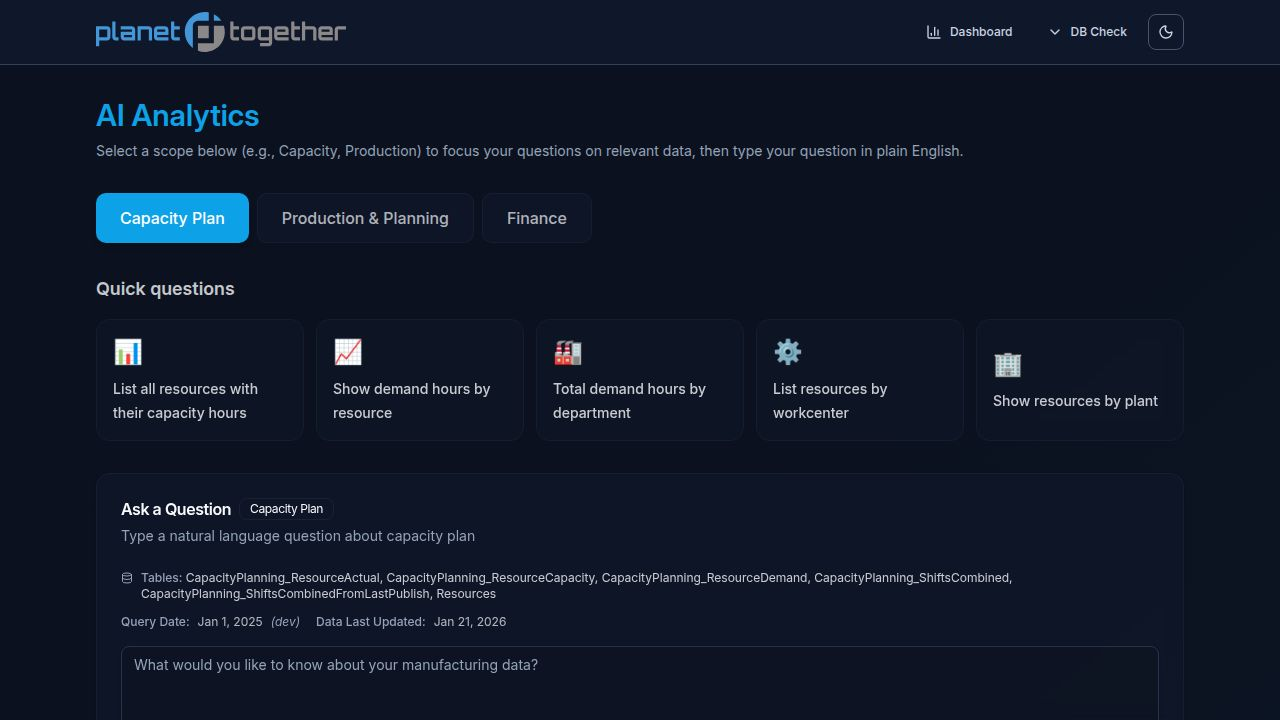
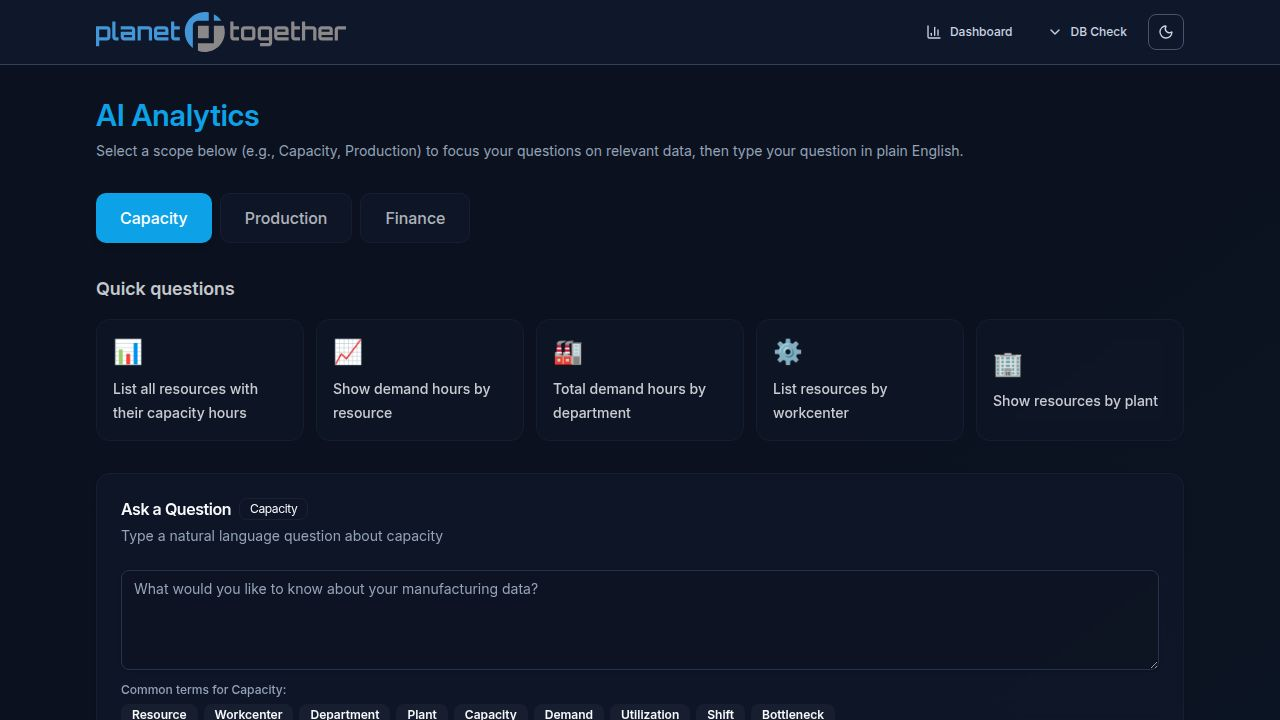
Display AI-generated answers and improve data visibility controls
Introduces natural language answer generation using OpenAI and refactors the results display to show answers prominently, hide raw data by default, and rename "Show All Rows" to "Show Data".

Replit-Commit-Author: Agent
Replit-Commit-Session-Id: 0dbbb982-6ca3-4eb8-8cf5-d91497a90054
Replit-Commit-Checkpoint-Type: full_checkpoint
Replit-Commit-Event-Id: 0873a6b5-323c-4ada-a693-875e47d69c04
Replit-Commit-Screenshot-Url: https://storage.googleapis.com/screenshot-production-us-central1/fe231bd0-3575-4d97-ac43-7b7995348253/0dbbb982-6ca3-4eb8-8cf5-d91497a90054/cAkTpIu

diff --git a/client/src/pages/query.tsx b/client/src/pages/query.tsx
@@ -116,7 +116,7 @@ export default function QueryPage() {
   const [result, setResult] = useState<QueryResult | null>(null);
   const [error, setError] = useState<string | null>(null);
   const [faqQuestions, setFaqQuestions] = useState<QuickQuestion[]>([]);
-  const [showAllRows, setShowAllRows] = useState(false);
+  const [showData, setShowData] = useState(false);
   const [showSql, setShowSql] = useState(false);
   const [diagnosticsLoading, setDiagnosticsLoading] = useState(false);
   const [diagnosticsResult, setDiagnosticsResult] = useState<DiagnosticsResult | null>(null);
@@ -222,7 +222,7 @@ export default function QueryPage() {
     setResult(null);
     setGeneralAnswer(null);
     setFeedbackGiven(null);
-    setShowAllRows(false);
+    setShowData(false);
     setSubmittedQuestion(q.trim());
 
     // Get the anchor date (effective "today" for queries) from environment secret
@@ -345,7 +345,7 @@ export default function QueryPage() {
     setSuggestedMode(null);
     setFailedQuestion('');
     setFeedbackGiven(null);
-    setShowAllRows(false);
+    setShowData(false);
     setShowChart(false);
     setQueryWasTransformed(false);
   };
@@ -877,106 +877,110 @@ export default function QueryPage() {
                 )}
               </CardHeader>
               <CardContent className="space-y-4">
-                <div>
-                  <div className="flex items-center gap-2 mb-2">
+                {/* Natural Language Answer - Prominent Display */}
+                <div className="p-4 bg-gradient-to-r from-primary/5 to-primary/10 border border-primary/20 rounded-xl" data-testid="natural-answer">
+                  <p className="text-base leading-relaxed whitespace-pre-line">
+                    {result.answer}
+                  </p>
+                </div>
+                
+                {/* Action Buttons Row */}
+                {result.rows.length > 0 && (
+                  <div className="flex flex-wrap items-center gap-2">
+                    <Button
+                      variant="outline"
+                      size="sm"
+                      onClick={() => setShowData(!showData)}
+                      className={`gap-2 ${showData ? 'bg-green-500/20 border-green-500/50' : 'bg-green-500/10 text-green-600 dark:text-green-400 border-green-500/30 hover:bg-green-500/20'}`}
+                      data-testid="button-toggle-data"
+                    >
+                      <Database className="h-4 w-4" />
+                      {showData ? 'Hide Data' : `Show Data (${result.rows.length} rows)`}
+                    </Button>
+                    <Button
+                      variant="outline"
+                      size="sm"
+                      onClick={() => setShowChart(!showChart)}
+                      className={`gap-2 ${showChart ? 'bg-primary/10 border-primary/50' : ''}`}
+                      data-testid="button-toggle-chart"
+                    >
+                      <BarChart3 className="h-4 w-4" />
+                      {showChart ? 'Hide Chart' : 'Show Chart'}
+                    </Button>
+                    <DropdownMenu>
+                      <DropdownMenuTrigger asChild>
+                        <Button
+                          variant="outline"
+                          size="sm"
+                          className="gap-2"
+                          data-testid="button-export"
+                        >
+                          <Download className="h-4 w-4" />
+                          Export
+                        </Button>
+                      </DropdownMenuTrigger>
+                      <DropdownMenuContent align="end">
+                        <DropdownMenuItem
+                          onClick={() => {
+                            try {
+                              const exportData = result.rows.map(filterRowColumns);
+                              exportToCSV(exportData, `query-results-${Date.now()}.csv`);
+                            } catch (err: any) {
+                              setError(`Export failed: ${err.message}`);
+                            }
+                          }}
+                          data-testid="menu-export-csv"
+                        >
+                          Export as CSV
+                        </DropdownMenuItem>
+                        <DropdownMenuItem
+                          onClick={() => {
+                            try {
+                              const exportData = result.rows.map(filterRowColumns);
+                              exportToExcel(exportData, `query-results-${Date.now()}.xlsx`);
+                            } catch (err: any) {
+                              setError(`Export failed: ${err.message}`);
+                            }
+                          }}
+                          data-testid="menu-export-excel"
+                        >
+                          Export as Excel
+                        </DropdownMenuItem>
+                      </DropdownMenuContent>
+                    </DropdownMenu>
                     <Button
                       variant="ghost"
                       size="sm"
                       onClick={() => setShowSql(!showSql)}
-                      className="gap-2 px-2 h-7"
+                      className="gap-2"
                       data-testid="button-toggle-sql"
                     >
                       {showSql ? <ChevronUp className="h-4 w-4" /> : <ChevronDown className="h-4 w-4" />}
-                      <Badge variant="outline" className="bg-primary/10 text-primary border-primary/30 pointer-events-none">SQL Query</Badge>
+                      SQL
                     </Button>
-                    <Badge className="bg-green-500/10 text-green-600 dark:text-green-400 border-green-500/30">{result.rowCount} rows</Badge>
                   </div>
-                  {showSql && (
-                    <pre className="bg-muted/50 p-4 rounded-xl text-sm overflow-x-auto border border-border/30" data-testid="text-sql">
-                      {result.sql}
-                    </pre>
-                  )}
-                </div>
+                )}
+                
+                {/* SQL Query - Collapsible */}
+                {showSql && (
+                  <pre className="bg-muted/50 p-4 rounded-xl text-sm overflow-x-auto border border-border/30" data-testid="text-sql">
+                    {result.sql}
+                  </pre>
+                )}
+                
+                {/* Chart visualization */}
+                {showChart && result.rows.length > 0 && (
+                  <div className="border border-border/50 rounded-xl p-4 bg-card/50">
+                    <ResultChart 
+                      rows={result.rows.map(filterRowColumns)} 
+                      columns={Object.keys(filterRowColumns(result.rows[0]))} 
+                    />
+                  </div>
+                )}
 
-                {result.rows.length > 0 ? (
+                {/* Data Table - Hidden by default */}
+                {showData && result.rows.length > 0 && (
                   <div>
-                    <div className="flex items-center justify-between mb-2">
-                      <h3 className="font-semibold">Data Preview</h3>
-                      <div className="flex items-center gap-2">
-                        <DropdownMenu>
-                          <DropdownMenuTrigger asChild>
-                            <Button
-                              variant="outline"
-                              size="sm"
-                              className="gap-2"
-                              data-testid="button-export"
-                            >
-                              <Download className="h-4 w-4" />
-                              Export
-                            </Button>
-                          </DropdownMenuTrigger>
-                          <DropdownMenuContent align="end">
-                            <DropdownMenuItem
-                              onClick={() => {
-                                try {
-                                  const exportData = result.rows.map(filterRowColumns);
-                                  exportToCSV(exportData, `query-results-${Date.now()}.csv`);
-                                } catch (err: any) {
-                                  setError(`Export failed: ${err.message}`);
-                                }
-                              }}
-                              data-testid="menu-export-csv"
-                            >
-                              Export as CSV
-                            </DropdownMenuItem>
-                            <DropdownMenuItem
-                              onClick={() => {
-                                try {
-                                  const exportData = result.rows.map(filterRowColumns);
-                                  exportToExcel(exportData, `query-results-${Date.now()}.xlsx`);
-                                } catch (err: any) {
-                                  setError(`Export failed: ${err.message}`);
-                                }
-                              }}
-                              data-testid="menu-export-excel"
-                            >
-                              Export as Excel
-                            </DropdownMenuItem>
-                          </DropdownMenuContent>
-                        </DropdownMenu>
-                        <Button
-                          variant="outline"
-                          size="sm"
-                          onClick={() => setShowChart(!showChart)}
-                          className={`gap-2 ${showChart ? 'bg-primary/10 border-primary/50' : ''}`}
-                          data-testid="button-toggle-chart"
-                        >
-                          <BarChart3 className="h-4 w-4" />
-                          {showChart ? 'Hide Chart' : 'Show Chart'}
-                        </Button>
-                        <Button
-                          variant="outline"
-                          size="sm"
-                          onClick={() => setShowAllRows(!showAllRows)}
-                          disabled={result.rows.length <= 10}
-                          className="bg-green-500/10 text-green-600 dark:text-green-400 border-green-500/30 hover:bg-green-500/20 disabled:opacity-50"
-                          data-testid="button-toggle-rows"
-                        >
-                          {showAllRows ? `Show First 10` : `Show All ${result.rows.length} Rows`}
-                        </Button>
-                      </div>
-                    </div>
-                    
-                    {/* Chart visualization */}
-                    {showChart && result.rows.length > 0 && (
-                      <div className="border border-border/50 rounded-xl p-4 bg-card/50">
-                        <ResultChart 
-                          rows={result.rows.map(filterRowColumns)} 
-                          columns={Object.keys(filterRowColumns(result.rows[0]))} 
-                        />
-                      </div>
-                    )}
-                    
                     <div className="w-full overflow-x-auto border border-border/50 rounded-xl">
                       <div className="max-h-[420px] overflow-auto">
                         <table className={`w-full text-sm table-auto ${Object.keys(filterRowColumns(result.rows[0])).length > 5 ? 'min-w-[900px]' : ''}`}>
@@ -990,7 +994,7 @@ export default function QueryPage() {
                             </tr>
                           </thead>
                           <tbody>
-                            {(showAllRows ? result.rows : result.rows.slice(0, 10)).map((row, idx) => {
+                            {result.rows.map((row, idx) => {
                               const filteredRow = filterRowColumns(row);
                               return (
                                 <tr key={idx} className="border-t border-border/30 hover:bg-muted/30 transition-colors" data-testid={`row-result-${idx}`}>
@@ -1011,10 +1015,13 @@ export default function QueryPage() {
                       </div>
                     </div>
                     <p className="text-sm text-muted-foreground mt-3">
-                      Showing {showAllRows ? result.rows.length : Math.min(10, result.rows.length)} of {result.rows.length} rows
+                      Showing {result.rows.length} rows
                     </p>
                   </div>
-                ) : (
+                )}
+
+                {/* No results message */}
+                {result.rows.length === 0 && (
                   <div className="p-6 text-center border border-border/50 rounded-xl bg-muted/30" data-testid="no-results-message">
                     <div className="text-4xl mb-3">📭</div>
                     <h3 className="font-semibold text-lg mb-2">No matching records found</h3>

diff --git a/server/openai-client.ts b/server/openai-client.ts
@@ -374,3 +374,88 @@ export async function answerGeneralQuestion(question: string): Promise<string> {
     return "I encountered an error trying to answer your question. Please try again.";
   }
 }
+
+const NATURAL_LANGUAGE_RESPONSE_PROMPT = `
+You are an AI assistant that summarizes database query results in natural, conversational language.
+
+Given a user's question and the query results, provide a clear, human-readable answer.
+
+FORMATTING RULES:
+- Use bullet points (•) when listing multiple items
+- Keep responses concise but complete
+- Use natural language, not technical jargon
+- Format numbers with commas for readability (e.g., 1,234 not 1234)
+- Round decimals to 2 places maximum
+- If there are many items (>10), summarize the top ones and mention how many total
+- If no results, say so clearly and suggest why (e.g., "No data found for this date range")
+
+EXAMPLES:
+Question: "Which resources are busiest next week?"
+Results: [{"ResourceName": "CNC1", "TotalHours": 45}, {"ResourceName": "Mill 2", "TotalHours": 38}]
+Response: "The busiest resources next week are:
+• CNC1 with 45 hours of scheduled work
+• Mill 2 with 38 hours of scheduled work"
+
+Question: "How many jobs are overdue?"
+Results: [{"OverdueCount": 12}]
+Response: "There are 12 overdue jobs that need attention."
+
+Question: "List unassigned resources in Plant A"
+Results: [{"ResourceName": "Lathe 1"}, {"ResourceName": "Drill 2"}, {"ResourceName": "Press 3"}]
+Response: "Unassigned resources in Plant A are:
+• Lathe 1
+• Drill 2
+• Press 3"
+
+Respond with ONLY the natural language answer, no preamble or explanation.
+`;
+
+export async function generateNaturalLanguageResponse(
+  question: string, 
+  results: any[], 
+  rowCount: number
+): Promise<string> {
+  if (!apiKey) {
+    return `Found ${rowCount} result(s).`;
+  }
+
+  // If no results, return a simple message
+  if (rowCount === 0) {
+    return "No matching data was found for your query. Try adjusting the date range or criteria.";
+  }
+
+  // Limit results sent to LLM to avoid token overflow
+  const limitedResults = results.slice(0, 20);
+  const hasMore = rowCount > 20;
+
+  try {
+    const response = await openai.chat.completions.create({
+      model: 'gpt-4.1-mini',
+      messages: [
+        { role: 'system', content: NATURAL_LANGUAGE_RESPONSE_PROMPT },
+        { 
+          role: 'user', 
+          content: `Question: "${question}"
+Results (${rowCount} total${hasMore ? ', showing first 20' : ''}):
+${JSON.stringify(limitedResults, null, 2)}
+
+Provide a natural language summary of these results.`
+        }
+      ],
+      temperature: 0.3,
+      max_completion_tokens: 500,
+    });
+
+    let answer = response.choices[0]?.message?.content?.trim() || `Found ${rowCount} result(s).`;
+    
+    // Add note about additional results if truncated
+    if (hasMore) {
+      answer += `\n\n(Showing summary of ${rowCount} total results. Click "Show Data" to see all.)`;
+    }
+    
+    return answer;
+  } catch (error) {
+    console.error('[openai-client] Natural language response generation failed:', error);
+    return `Found ${rowCount} result(s). Click "Show Data" to view the details.`;
+  }
+}

diff --git a/server/routes.ts b/server/routes.ts
@@ -2,7 +2,7 @@ import type { Express } from "express";
 import { createServer, type Server } from "http";
 import { executeQuery } from "./db-azure";
 import { validateAndModifySql, runValidatorSelfCheck, type ValidationOptions } from "./sql-validator";
-import { generateSqlFromQuestion, generateSuggestions, classifyQuestion, answerGeneralQuestion } from "./openai-client";
+import { generateSqlFromQuestion, generateSuggestions, classifyQuestion, answerGeneralQuestion, generateNaturalLanguageResponse } from "./openai-client";
 import { log } from "./index";
 import {
   createQueryLogContext,
@@ -608,8 +608,15 @@ export async function registerRoutes(
         }
       }
 
+      // Generate natural language response from results
+      const naturalAnswer = await generateNaturalLanguageResponse(
+        question, 
+        result.recordset, 
+        result.recordset.length
+      );
+
       res.json({
-        answer: `Query executed successfully. Retrieved ${result.recordset.length} row(s).`,
+        answer: naturalAnswer,
         sql: finalSql,
         rows: result.recordset,
         rowCount: result.recordset.length,
